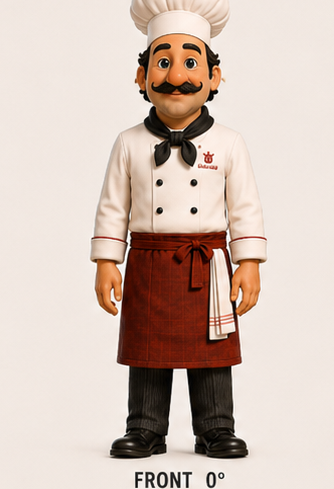
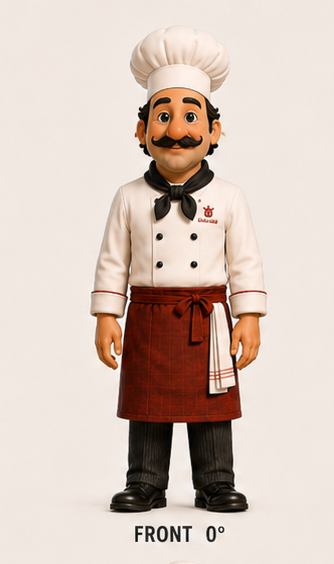
3D characters: 10 GLBs generated via free TripoSR HF Space
Switched from Meshy (paywalled GLB downloads) to Stability AI's TripoSR
running on a public Hugging Face Space. The gradio_client library lets
the script POST images directly to the Space and pull back the GLB —
no account, no API key, no payment.

Generated chef + waiter + errand + 7 guests in ~70 seconds total.
Each GLB is 600-1200 KB. Headers verified as valid glTF 2.0.

Trade-off: TripoSR quality is below Meshy/Tripo3D. It's a 2024 academic
model — geometry can be soft, no rig. Good enough to wire up the
character system and validate the 3D approach; we can re-generate with
better tools later once the gameplay is up.

WorldScene now drops one of each character into the scene next to the
furniture so quality is immediately visible on page load.

diff --git a/v2/src/scene/WorldScene.ts b/v2/src/scene/WorldScene.ts
@@ -127,5 +127,41 @@ export class WorldScene {
         console.error(`Failed to load ${def.id} (${def.modelPath})`, err);
       }
     }));
+
+    await this.populateCharacters();
+  }
+
+  /** Drop one of every TripoSR-generated character into the scene so we can
+   * eyeball quality + proportions. Real placement (waiters at counter,
+   * guests at tables, etc.) happens in the gameplay-port phase. */
+  private async populateCharacters(): Promise<void> {
+    const characters: { id: string; x: number; z: number }[] = [
+      { id: "chef",     x: -1.5, z: -3 },
+      { id: "waiter",   x:  1.5, z: -3 },
+      { id: "errand",   x:  3.5, z: -3 },
+
+      { id: "guest-v0", x: -4,   z:  3 },
+      { id: "guest-v1", x: -2.5, z:  3 },
+      { id: "guest-v2", x: -1,   z:  3 },
+      { id: "guest-v3", x:  0.5, z:  3 },
+      { id: "guest-v4", x:  2,   z:  3 },
+      { id: "guest-v5", x:  3.5, z:  3 },
+      { id: "guest-v6", x:  5,   z:  3 },
+    ];
+
+    // TripoSR output is normalised — characters come out roughly 1 unit tall.
+    // Scale up so they're human-height (1.7m) relative to the chairs/tables.
+    const TRIPO_SCALE = 1.7;
+
+    await Promise.all(characters.map(async (c) => {
+      try {
+        const model = await this.loader.load(`assets/characters/${c.id}.glb`);
+        model.scale.setScalar(TRIPO_SCALE);
+        model.position.set(c.x, 0, c.z);
+        this.threeScene.add(model);
+      } catch (err) {
+        console.warn(`Character ${c.id} unavailable (will fall back to placeholder later):`, err);
+      }
+    }));
   }
 }

diff --git a/v2/scripts/generate_triposr.py b/v2/scripts/generate_triposr.py
@@ -1,0 +1,104 @@
+"""Generate 3D character GLBs from the existing FRONT-view crops using the
+free public TripoSR Hugging Face Space — no API key, no account required.
+
+Quality is below paid services like Meshy (TripoSR is a 2024 academic model)
+but it's truly free with no quotas, and the output is good enough to wire
+up the 3D character system. We can re-generate with Meshy/Tripo3D later
+once the rest of the game is built and a budget is approved.
+
+Reads:  v2/meshy_fronts/{character_id}.png
+Writes: v2/public/assets/characters/{character_id}.glb
+
+Usage:
+    cd v2
+    pip install gradio_client
+    python scripts/generate_triposr.py            # generates all missing
+    python scripts/generate_triposr.py --force     # regenerates everything
+    python scripts/generate_triposr.py --only chef # just one
+"""
+from __future__ import annotations
+
+import argparse
+import shutil
+import sys
+import time
+from pathlib import Path
+
+try:
+    from gradio_client import Client, handle_file  # type: ignore
+except ImportError:
+    print("Install with: pip install gradio_client", file=sys.stderr)
+    sys.exit(1)
+
+ROOT = Path(__file__).resolve().parent.parent  # v2/
+FRONTS_DIR = ROOT / "meshy_fronts"
+OUT_DIR = ROOT / "public" / "assets" / "characters"
+OUT_DIR.mkdir(parents=True, exist_ok=True)
+
+SPACE = "stabilityai/TripoSR"
+# Higher = more detailed mesh but slower; 256 is a good balance.
+MARCHING_CUBES = 256
+# Foreground crop: 0.85 zooms in slightly so the character fills the frame.
+FOREGROUND_RATIO = 0.85
+
+CHARACTERS = [
+    "chef", "waiter", "errand",
+    "guest-v0", "guest-v1", "guest-v2", "guest-v3", "guest-v4", "guest-v5", "guest-v6",
+]
+
+
+def generate_one(client: Client, char_id: str, force: bool) -> bool:
+    src = FRONTS_DIR / f"{char_id}.png"
+    dst = OUT_DIR / f"{char_id}.glb"
+    if not src.exists():
+        print(f"[{char_id}] SKIP — source not found: {src.name}")
+        return False
+    if dst.exists() and not force:
+        print(f"[{char_id}] SKIP — already exists: {dst.name}")
+        return True
+
+    print(f"[{char_id}] preprocessing…")
+    processed = client.predict(handle_file(str(src)), True, FOREGROUND_RATIO,
+                                api_name="/preprocess")
+    print(f"[{char_id}] generating 3D mesh (~30-60s)…")
+    started = time.time()
+    _obj, glb = client.predict(handle_file(processed), MARCHING_CUBES,
+                                api_name="/generate")
+    elapsed = time.time() - started
+    shutil.copy(glb, dst)
+    size_kb = dst.stat().st_size // 1024
+    print(f"[{char_id}] wrote {dst.name} ({size_kb} KB) in {elapsed:.1f}s")
+    return True
+
+
+def main() -> int:
+    parser = argparse.ArgumentParser()
+    parser.add_argument("--force", action="store_true")
+    parser.add_argument("--only", action="append", default=[])
+    args = parser.parse_args()
+
+    targets = args.only if args.only else CHARACTERS
+    print(f"Generating {len(targets)} character(s) via {SPACE}")
+    print(f"Output: {OUT_DIR}\n")
+
+    print("connecting to Hugging Face Space…")
+    try:
+        client = Client(SPACE, verbose=False)
+    except Exception as e:
+        print(f"FAILED to connect: {e}", file=sys.stderr)
+        return 2
+
+    ok = 0
+    for cid in targets:
+        try:
+            if generate_one(client, cid, args.force):
+                ok += 1
+        except Exception as e:
+            print(f"[{cid}] ERROR: {e}")
+        print()
+    print(f"\nDone. {ok}/{len(targets)} ok.")
+    return 0 if ok == len(targets) else 1
+
+
+if __name__ == "__main__":
+    sys.exit(main())